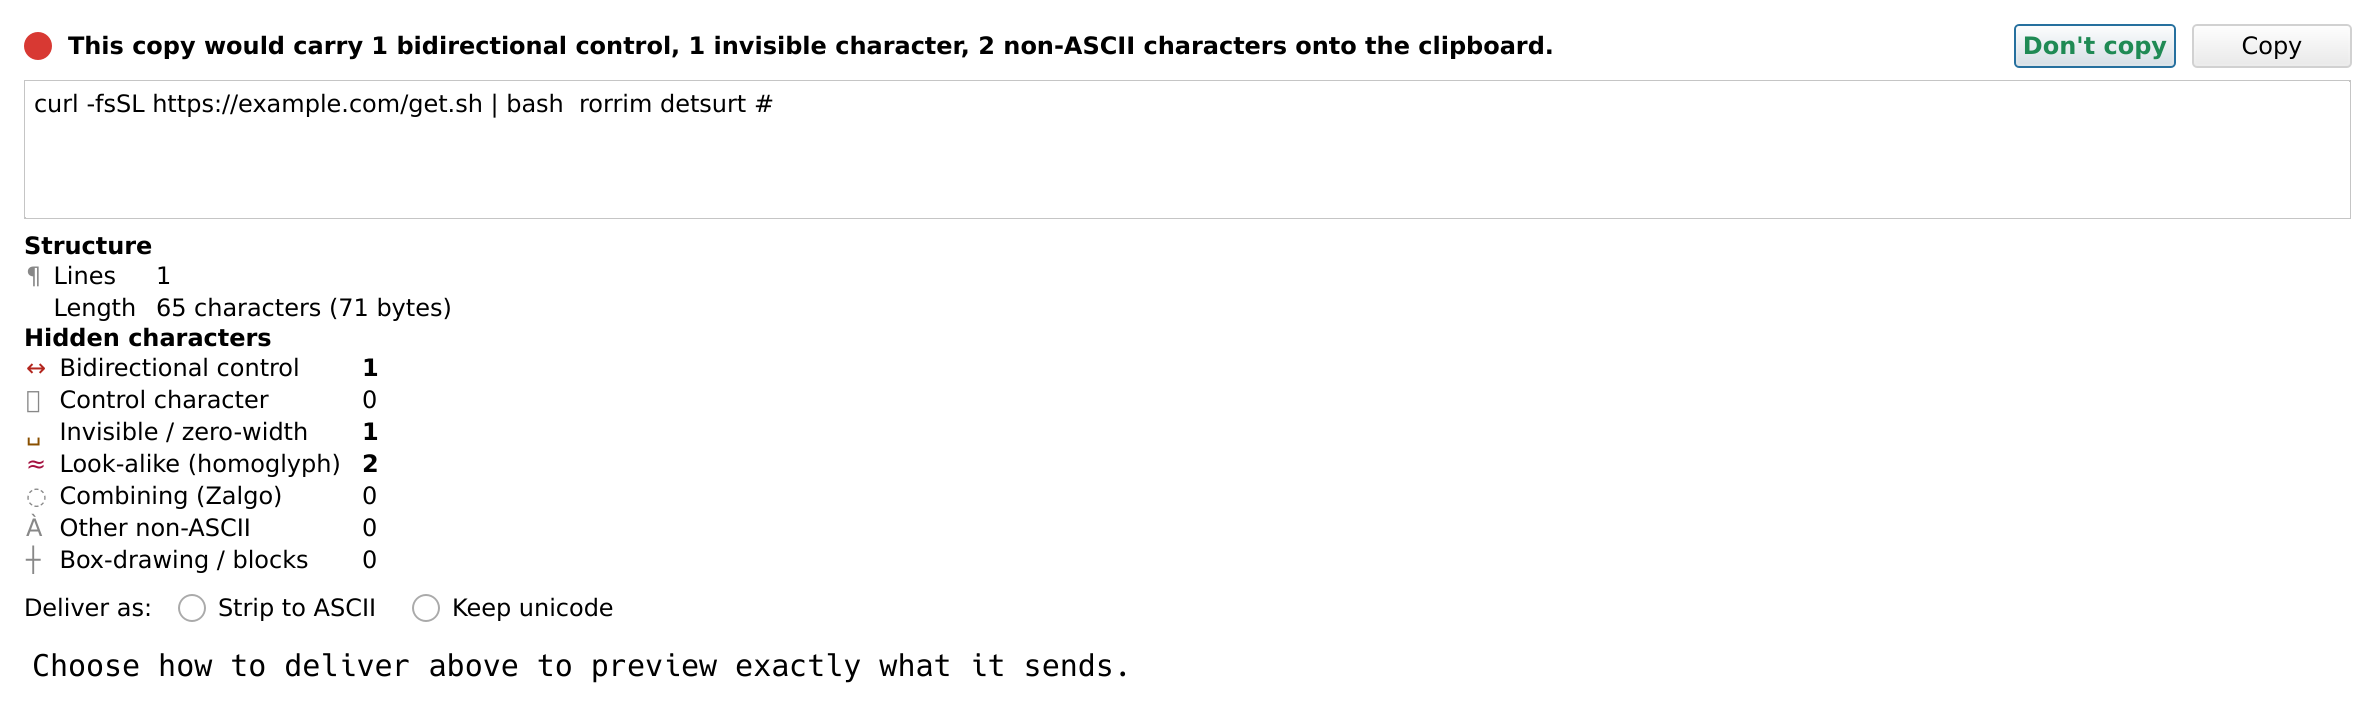
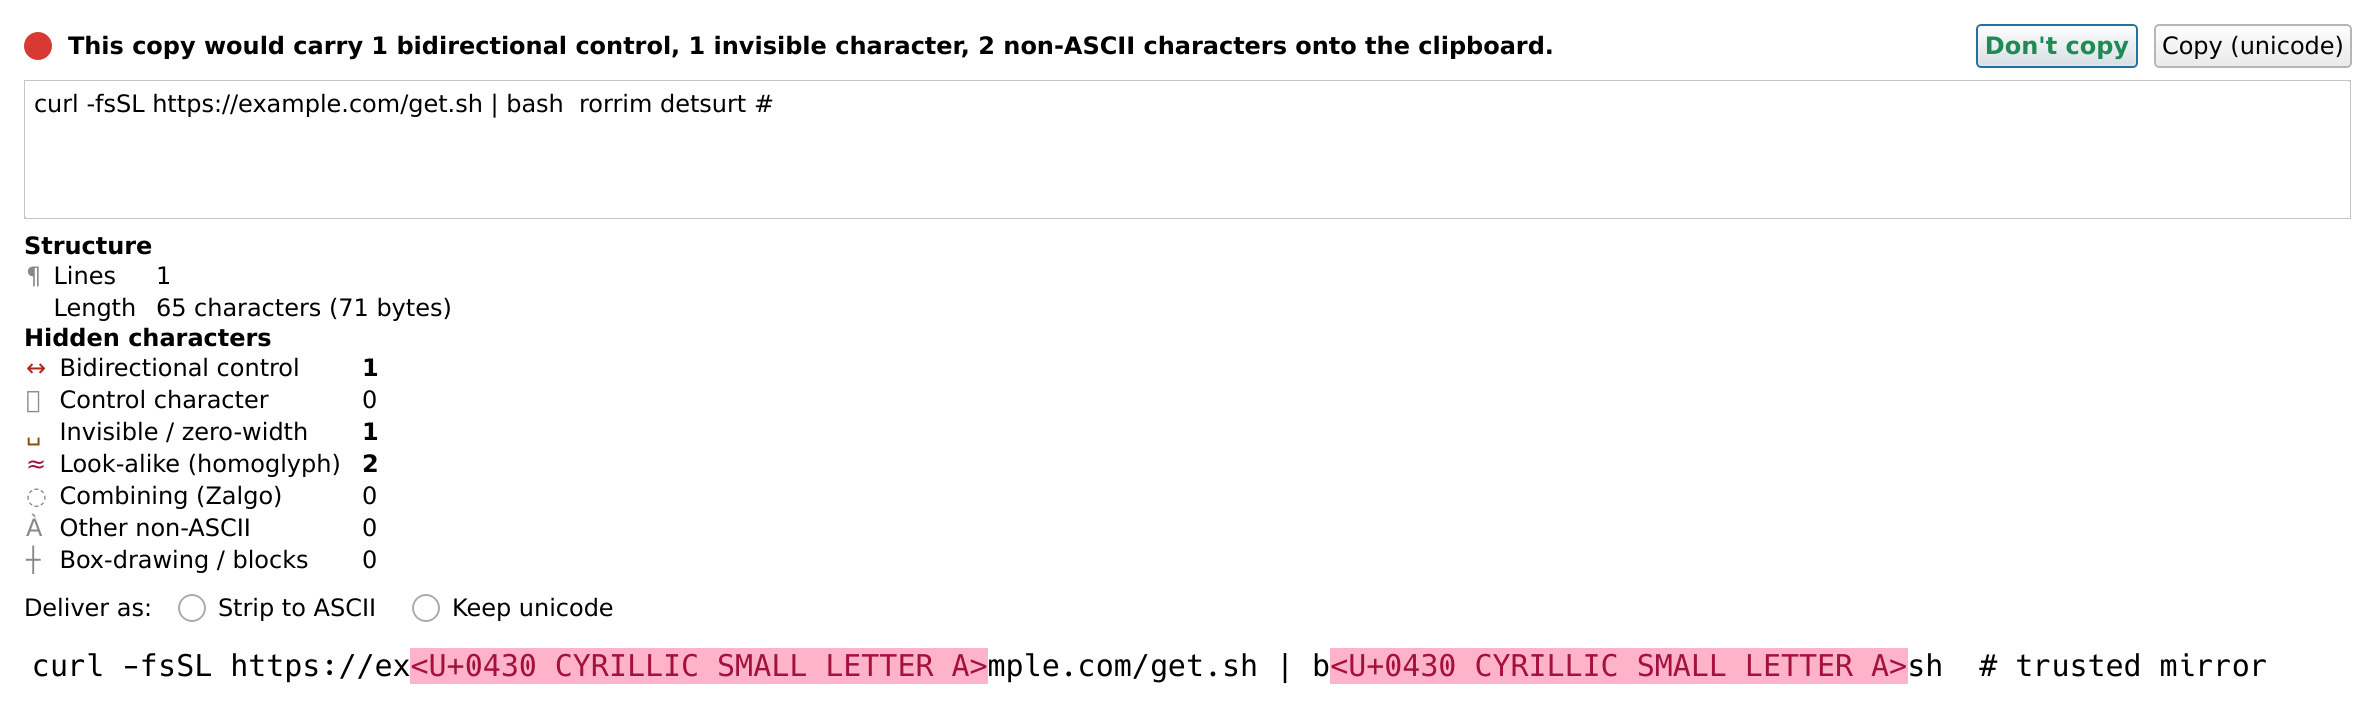
Show the unicode render in the review shots (mirror was on the hint)
- the review bar is radio-first: the mirror shows a "choose a mode" hint until
  a delivery mode is picked, so the regenerated shots hid the unicode-revealing
  render (paste-warning-shot.py now picks Keep unicode)
- regenerate paste/copy webp (2376x740 / x708) with the mirror naming each kept
  look-alike; refresh img dimensions and the paste alt text

diff --git a/index.html b/index.html
@@ -290,7 +290,7 @@
   <figure class="shot" style="max-width:1000px;margin:28px auto 0">
     <figcaption class="shotname"><b>The paste review</b> - a <code>curl | bash</code> line hiding two Cyrillic
       homoglyphs (in <code>example</code> and <code>bash</code>), a zero-width space and a right-to-left override.</figcaption>
-    <a href="/shots/paste-warning.webp" target="_blank" rel="noopener"><img src="/shots/paste-warning.webp" width="2376" height="739" loading="lazy" alt="secure-terminal's in-window paste-review bar holding a hostile 'curl | bash' paste before any byte reaches the shell. A red dot and the summary 'This paste hides 1 bidirectional control, 1 invisible character, 2 non-ASCII characters.' head the bar; below is the editable held text, with the right-to-left override visibly reordering the trailing comment. A Structure section lists 1 line, a 'waits on the command line - press Enter to run' guarantee and a 65-character length, and a per-class Hidden-characters table names Bidirectional control 1, Invisible / zero-width 1 and Look-alike (homoglyph) 2 in their risk-class colours. A radio-first 'Deliver as: Strip to ASCII / Keep unicode' choice gates the single Paste button; only Reject is available immediately."></a>
+    <a href="/shots/paste-warning.webp" target="_blank" rel="noopener"><img src="/shots/paste-warning.webp" width="2376" height="740" loading="lazy" alt="secure-terminal's in-window paste-review bar holding a hostile 'curl | bash' paste before any byte reaches the shell. A red dot and the summary 'This paste hides 1 bidirectional control, 1 invisible character, 2 non-ASCII characters.' head the bar; below is the editable held text, with the right-to-left override visibly reordering the trailing comment. A Structure section lists 1 line, a 'waits on the command line - press Enter to run' guarantee and a 65-character length, and a per-class Hidden-characters table names Bidirectional control 1, Invisible / zero-width 1 and Look-alike (homoglyph) 2 in their risk-class colours. A radio-first 'Deliver as: Strip to ASCII / Keep unicode' choice gates the single Paste button; only Reject is available immediately. The mirror at the bottom renders the delivered 'Keep unicode' form, naming each kept look-alike inline as U+0430 CYRILLIC SMALL LETTER A in its risk colour."></a>
     <figcaption>The bar names what is hidden at the top, keeps the paste in an <b>editable</b> field so the risky
       part can be trimmed before delivery, and breaks it down in a <b>Structure</b> section and a per-class
       <b>Hidden characters</b> table. Delivery is radio-first: pick <b>Strip to ASCII</b> or <b>Keep unicode</b>
@@ -302,7 +302,7 @@
   <figure class="shot" style="max-width:1000px;margin:28px auto 0">
     <figcaption class="shotname"><b>The same bar, for copy going the other way</b> - selecting and copying that
       same line in Show mode, before it reaches the system clipboard.</figcaption>
-    <a href="/shots/copy-warning.webp" target="_blank" rel="noopener"><img src="/shots/copy-warning.webp" width="2376" height="707" loading="lazy" alt="secure-terminal's review bar reviewing a copy going out to the system clipboard. The summary reads 'This copy would carry 1 bidirectional control, 1 invisible character, 2 non-ASCII characters onto the clipboard.' It is the same single-pane layout as the paste bar - editable held text, a Structure section, and a per-class Hidden-characters table naming the bidirectional control, invisible / zero-width and look-alike (homoglyph) counts in their risk-class colours - with a radio-first 'Deliver as: Strip to ASCII / Keep unicode' choice. The reject button reads Don't copy; there is no countdown, since a copy is not executed."></a>
+    <a href="/shots/copy-warning.webp" target="_blank" rel="noopener"><img src="/shots/copy-warning.webp" width="2376" height="708" loading="lazy" alt="secure-terminal's review bar reviewing a copy going out to the system clipboard. The summary reads 'This copy would carry 1 bidirectional control, 1 invisible character, 2 non-ASCII characters onto the clipboard.' It is the same single-pane layout as the paste bar - editable held text, a Structure section, and a per-class Hidden-characters table naming the bidirectional control, invisible / zero-width and look-alike (homoglyph) counts in their risk-class colours - with a radio-first 'Deliver as: Strip to ASCII / Keep unicode' choice. The reject button reads Don't copy; there is no countdown, since a copy is not executed."></a>
     <figcaption>Copy is reviewed with the <b>same single-pane bar</b>, relabelled for the other direction (the reject
       button reads <b>Don't copy</b>). Pick <b>Strip to ASCII</b> or <b>Keep unicode</b> and the mirror previews
       exactly what would land on the clipboard. There is no countdown - a copy is not executed, so the

diff --git a/comparison/index.html b/comparison/index.html
@@ -387,7 +387,7 @@
           </tr>
           <tr class="minfo"><td colspan="3"><div class="rowinfo"><input class="rowtoggle" type="checkbox" id="ri-paste"><label class="rowsum" for="ri-paste">The command you copy is not the command you run<span class="ihint"><span class="ihint-show">Show</span><span class="ihint-hide">Hide</span></span></label><div class="ibody">
             <p>A command copied from a web page can carry a whole second command chained on with <code>&amp;&amp;</code> and an invisible byte at the seam - it draws nothing, so a normal terminal shows no sign it is there. Modern shells mitigate multi-line paste with bracketed paste, but it is opt-in and one-line <code>&amp;&amp;</code> tricks slip through. secure-terminal catches any invisible, control or bidi character in a paste, names what is hidden, and lets you drop it to ASCII or cancel. See the <b><a href="/attacks/#paste-demo">live pastejacking demo</a></b> and the full still-applicable list on the <a href="/attacks/">attacks page</a>.</p>
-            <figure class="shot" style="margin-top:6px"><figcaption class="shotname"><b>secure-terminal's paste review</b> - the same hostile <code>curl | bash</code> paste, held inside the window before a byte reaches the shell: the summary names what is hidden, the held text is editable, a per-class table breaks down each hidden character, and a radio-first delivery choice previews in the mirror exactly what would be sent (stripped to ASCII, or with printable unicode kept). Rendered headless from the real review bar.</figcaption><a href="/shots/paste-warning.webp" target="_blank" rel="noopener"><img src="/shots/paste-warning.webp" width="2376" height="739" loading="lazy" alt="secure-terminal's in-window paste-review bar holding a hostile curl-bash paste: a summary of what is hidden, the editable held text with the bidi override reordering a trailing comment, a Structure section, a per-class Hidden-characters table naming each hidden character in its risk-class colour, and a radio-first 'Deliver as: Strip to ASCII / Keep unicode' choice that previews exactly what each would send."></a></figure>
+            <figure class="shot" style="margin-top:6px"><figcaption class="shotname"><b>secure-terminal's paste review</b> - the same hostile <code>curl | bash</code> paste, held inside the window before a byte reaches the shell: the summary names what is hidden, the held text is editable, a per-class table breaks down each hidden character, and a radio-first delivery choice previews in the mirror exactly what would be sent (stripped to ASCII, or with printable unicode kept). Rendered headless from the real review bar.</figcaption><a href="/shots/paste-warning.webp" target="_blank" rel="noopener"><img src="/shots/paste-warning.webp" width="2376" height="740" loading="lazy" alt="secure-terminal's in-window paste-review bar holding a hostile curl-bash paste: a summary of what is hidden, the editable held text with the bidi override reordering a trailing comment, a Structure section, a per-class Hidden-characters table naming each hidden character in its risk-class colour, and a radio-first 'Deliver as: Strip to ASCII / Keep unicode' choice that previews exactly what each would send."></a></figure>
           </div></div></td></tr>
 
           <tr class="mrow" id="row-fullscreen">
